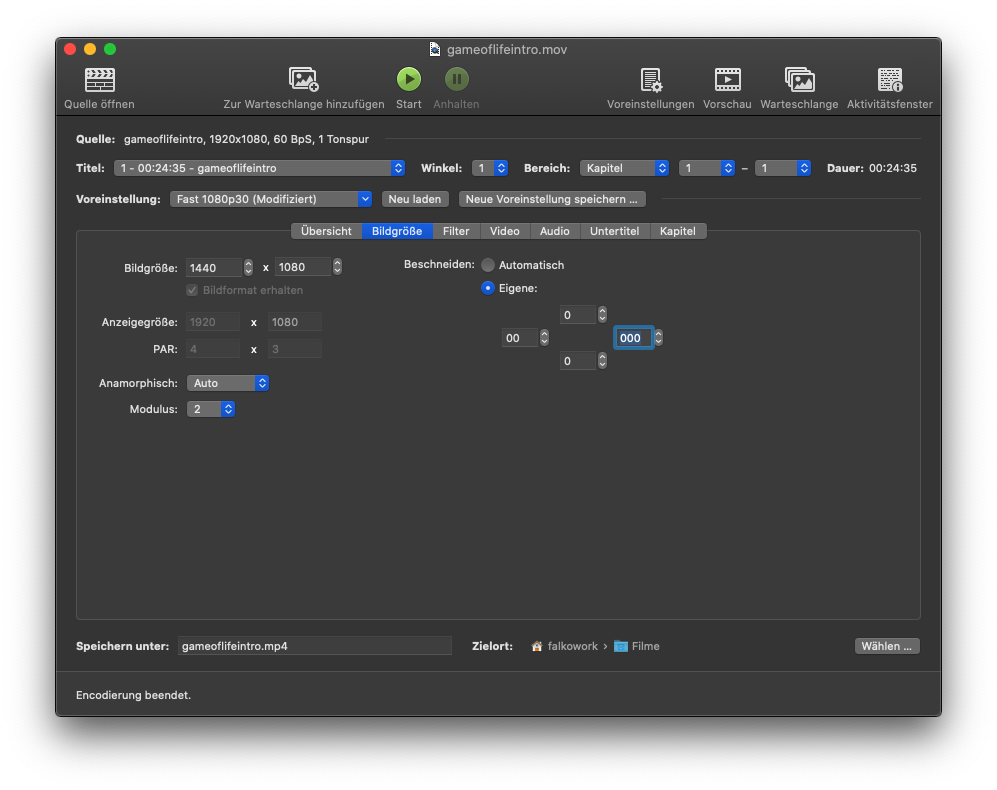
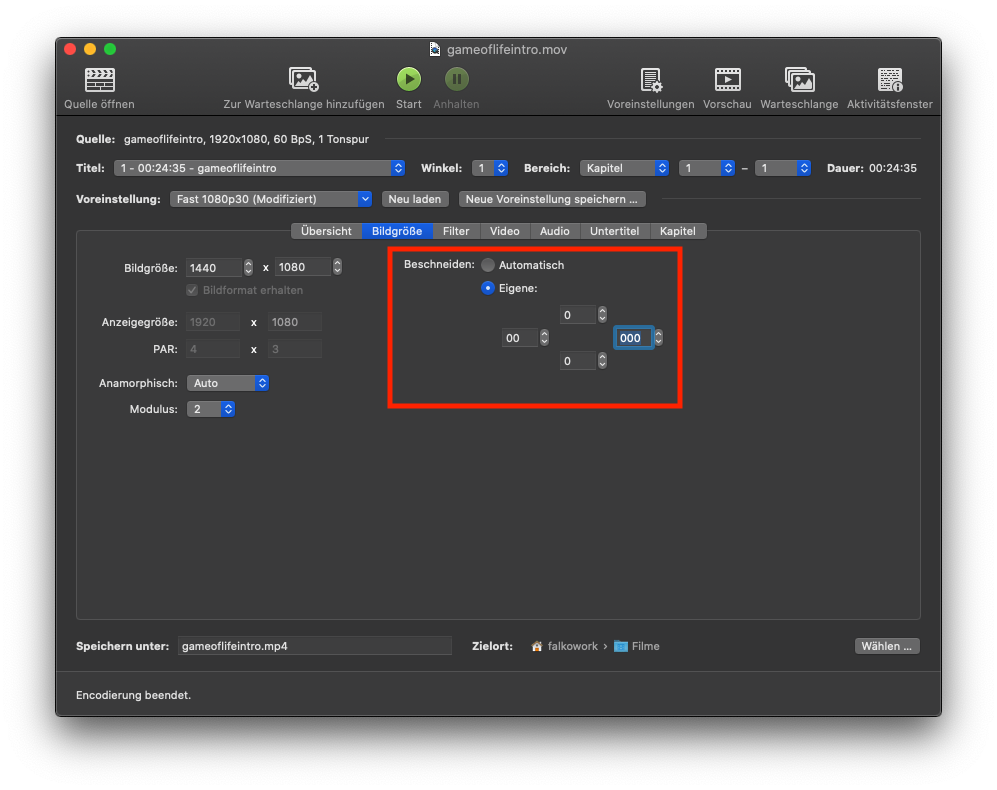
Changes post

Changed region(s): [[0.3731, 0.3038, 0.6841, 0.5165]]

diff --git a/posts/handbrake_aspect_ratio/index.html b/posts/handbrake_aspect_ratio/index.html
@@ -143,7 +143,7 @@
         
         <p>From time to time I do screen recordings, which include a PowerPoint with an aspect ratio of 4:3. When encoding these video files with handbrake it tries to be smart about it and tries to automatically detect the aspect ratio of the video, which usually ends up being 4:3 and cropping the rest of the video.
 But there is an easy fix for that. Go to the picture tab and change the cropping option to 0 in all directions.
-<img src="static/images/handbrake.png" alt="Handbrake Screenshot"></p>
+<img src="images/handbrake.png" alt="Handbrake Screenshot"></p>
 
       </div>
 
